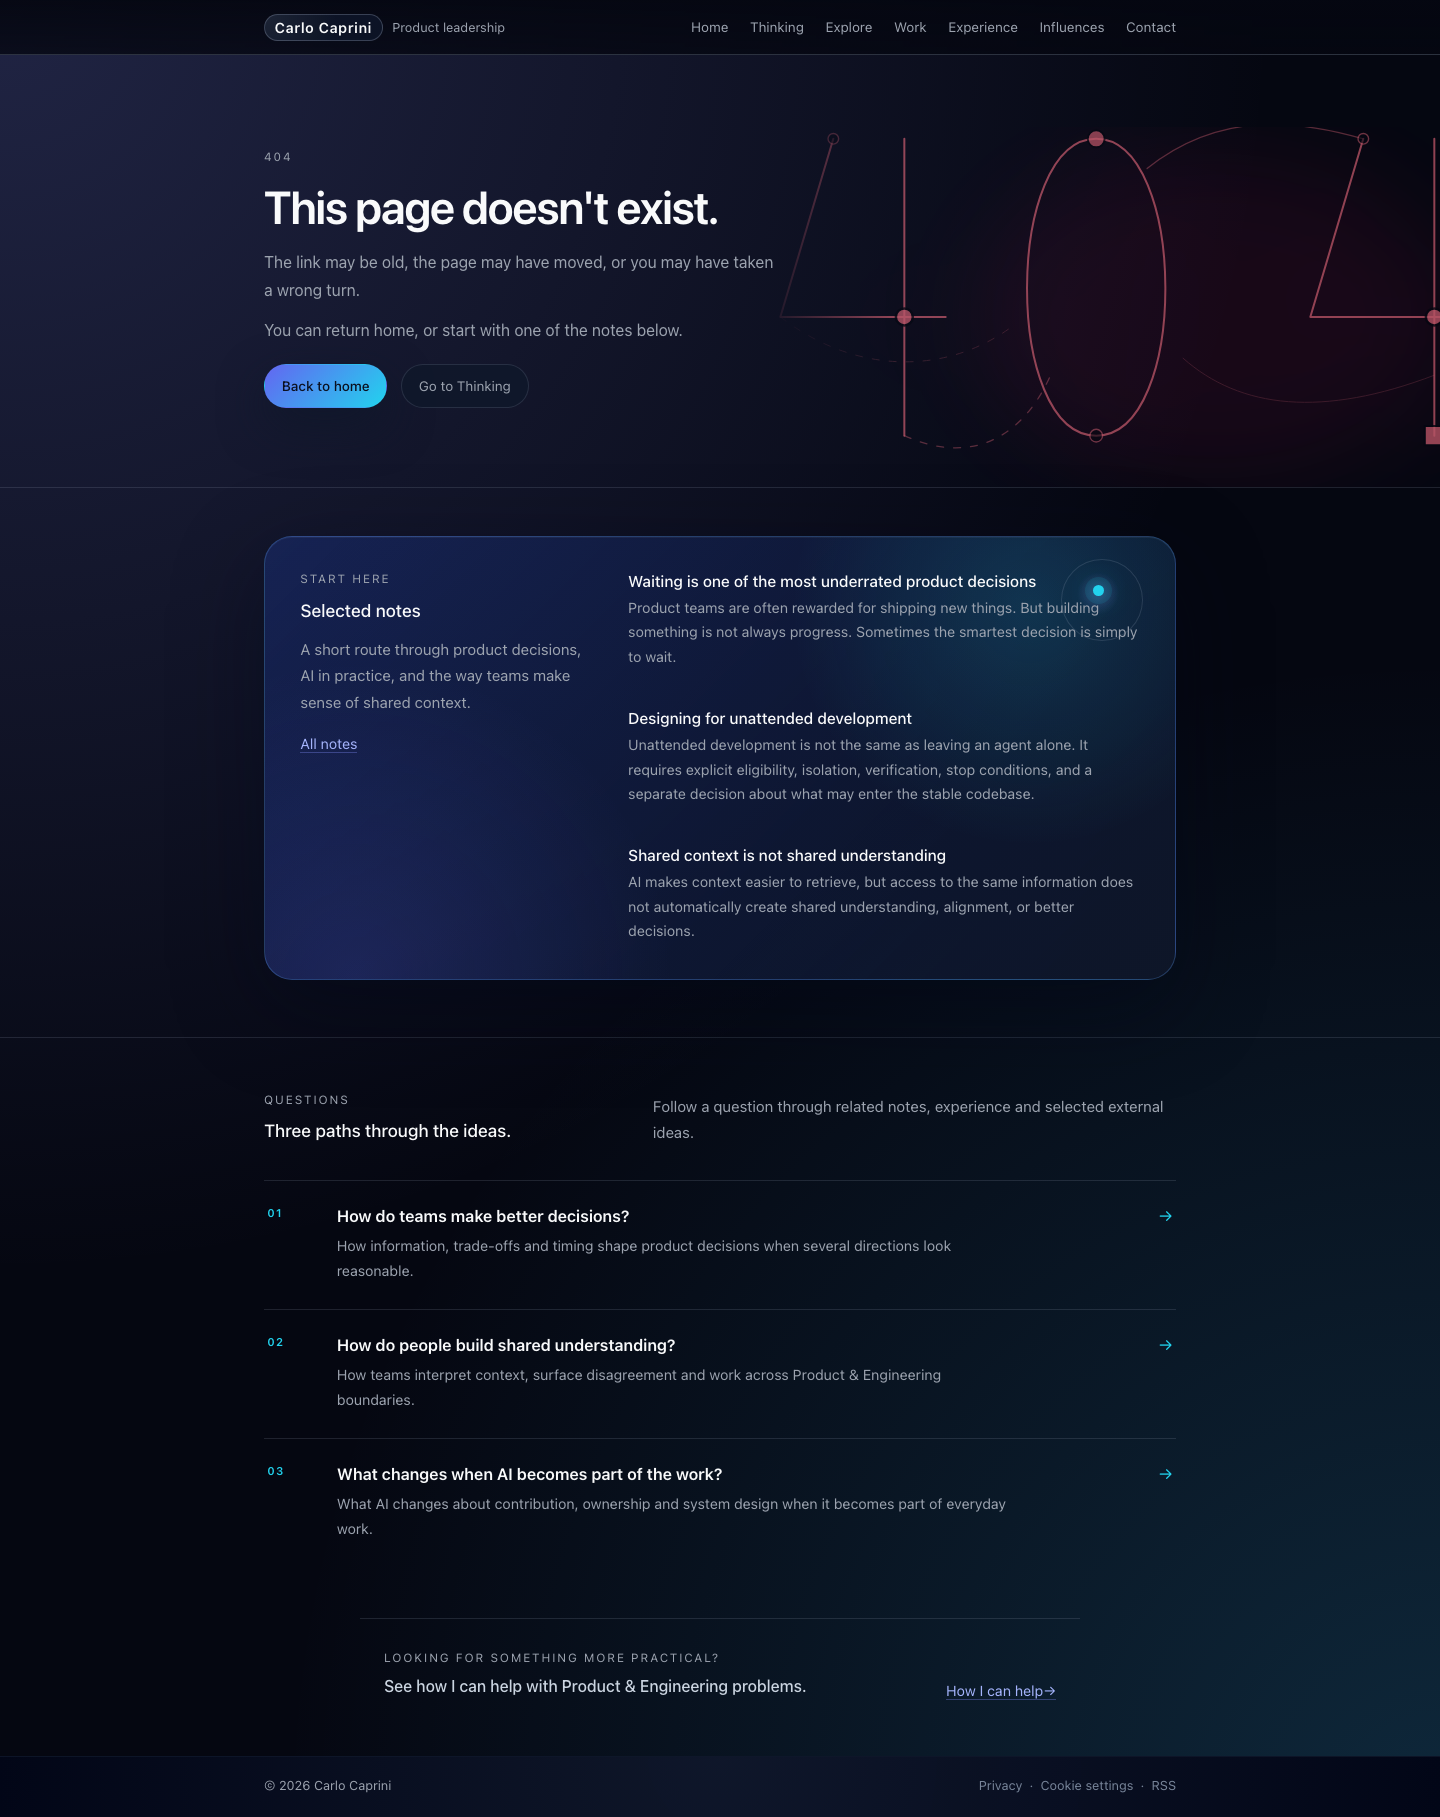
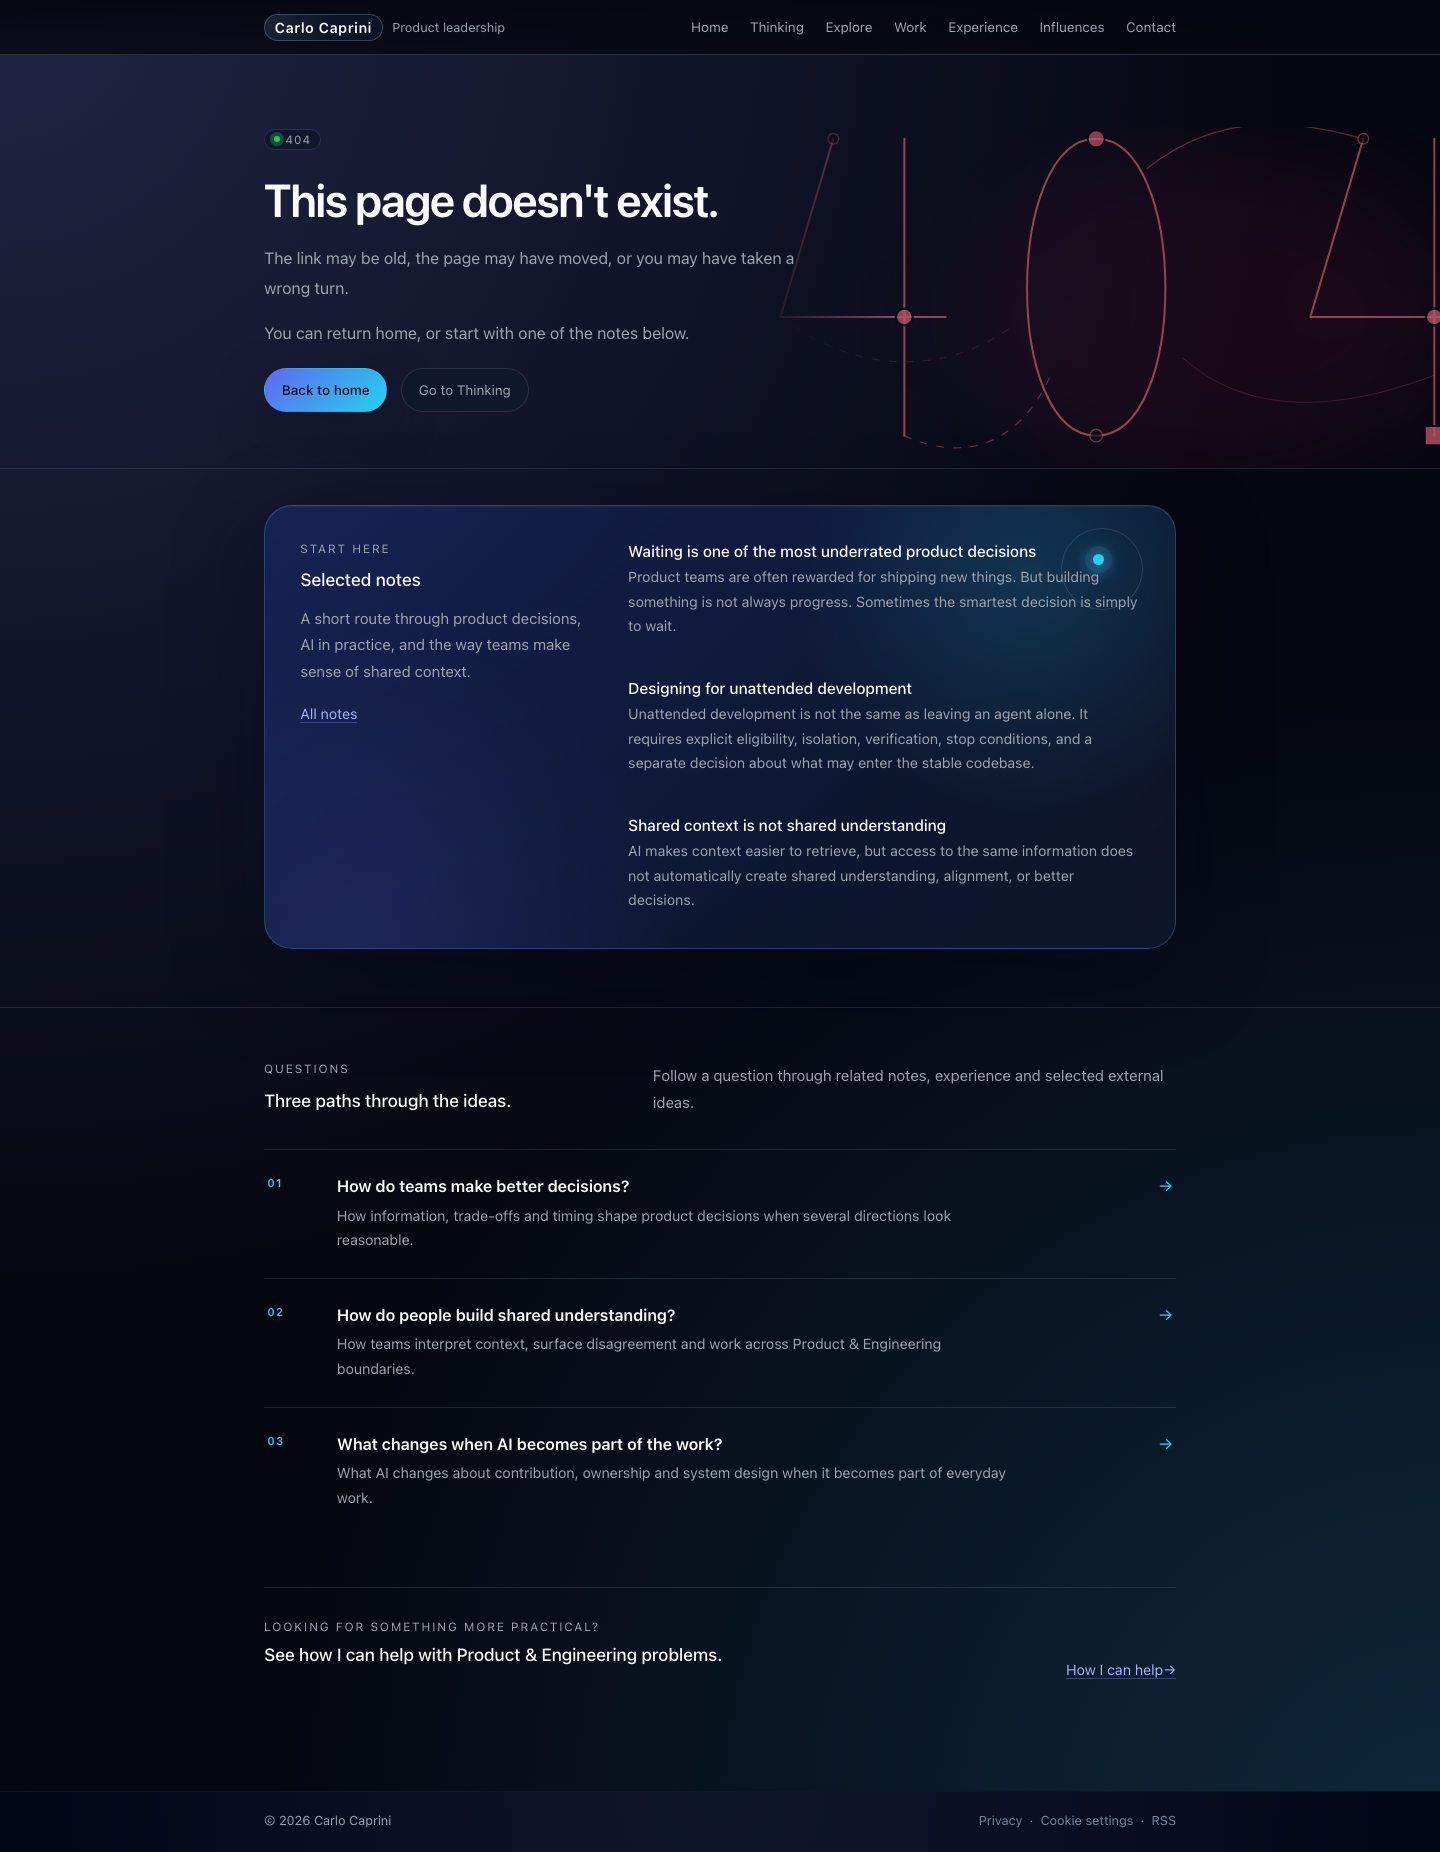
Align 404 with shared design primitives

diff --git a/tests/browser/not-found.spec.js b/tests/browser/not-found.spec.js
@@ -36,10 +36,18 @@ test("custom 404 output preserves the site shell and focused recovery hierarchy"
   await expect(page.locator(".site-header")).toBeAttached();
   await expect(page.locator(".site-footer")).toBeAttached();
   await expect(page.locator("[data-consent-settings]")).toBeAttached();
+  await expect(page.locator(".not-found-hero")).toHaveClass(/\bhero\b/);
+  await expect(page.locator(".not-found-hero")).toHaveClass(/\bhero--compact\b/);
+  await expect(page.locator(".not-found-message > .hero-label")).toHaveText("404");
+  await expect(page.locator(".not-found-message > .hero-label .hero-label-dot")).toBeVisible();
+  await expect(page.locator(".not-found-message > .section-eyebrow")).toHaveCount(0);
   await expect(page.getByRole("heading", { name: "This page doesn't exist." })).toBeVisible();
+  await expect(page.locator("#not-found-title")).toHaveClass(/\bhero-title--compact\b/);
+  await expect(page.locator(".not-found-message > .hero-subtitle")).toHaveCount(2);
   await expect(page.getByRole("link", { name: "Back to home" })).toHaveAttribute("href", "/");
   await expect(page.getByRole("link", { name: "Go to Thinking" })).toHaveAttribute("href", "/thinking/");
   await expect(page.getByRole("link", { name: "How I can help" })).toHaveAttribute("href", "/work/");
+  await expect(page.locator(".not-found-work #not-found-work-title")).toHaveClass(/\bsection-title\b/);
 
   const noteLinks = page.locator(".not-found-notes > li > a");
   await expect(noteLinks).toHaveCount(3);
@@ -88,4 +96,30 @@ test("recovery remains usable without the decorative motif", async ({ page }) =>
   await expect(page.getByRole("link", { name: "How I can help" })).toBeVisible();
   expect(await page.evaluate(() => document.documentElement.scrollWidth))
     .toBe(await page.evaluate(() => document.documentElement.clientWidth));
+});
+
+test("404 typography uses the canonical hero and section primitives", async ({ page }) => {
+  const styleSignature = async (selector, properties) => page.locator(selector).first().evaluate((element, names) => {
+    const style = getComputedStyle(element);
+    return Object.fromEntries(names.map((name) => [name, style[name]]));
+  }, properties);
+
+  const labelProperties = ["display", "fontSize", "letterSpacing", "padding", "borderRadius", "textTransform"];
+  const titleProperties = ["fontSize", "fontWeight", "letterSpacing", "lineHeight", "marginTop", "marginBottom"];
+  const subtitleProperties = ["fontSize", "lineHeight", "color", "maxWidth"];
+
+  await page.goto("/thinking/");
+  const canonicalLabel = await styleSignature(".hero .hero-label", labelProperties);
+  const canonicalTitle = await styleSignature(".hero .hero-title", titleProperties);
+  const canonicalSubtitle = await styleSignature(".hero .hero-subtitle", subtitleProperties);
+
+  await page.goto("/404.html");
+  expect(await styleSignature(".not-found-message > .hero-label", labelProperties)).toEqual(canonicalLabel);
+  expect(await styleSignature("#not-found-title", titleProperties)).toEqual(canonicalTitle);
+  expect(await styleSignature(".not-found-message > .hero-subtitle", subtitleProperties)).toEqual(canonicalSubtitle);
+
+  const sectionTitleProperties = ["fontSize", "fontWeight", "lineHeight"];
+  expect(await styleSignature("#not-found-work-title", sectionTitleProperties)).toEqual(
+    await styleSignature("#not-found-questions-title", sectionTitleProperties)
+  );
 });

diff --git a/_layouts/not_found.html b/_layouts/not_found.html
@@ -4,7 +4,7 @@ layout: default
 ---
 {% assign h = site.data.home %}
 <div class="page not-found-page">
-  <section class="not-found-hero" aria-labelledby="not-found-title">
+  <section class="hero hero--compact not-found-hero" aria-labelledby="not-found-title">
     <div class="not-found-motif" aria-hidden="true">
       <svg viewBox="0 0 720 420" focusable="false">
         <g class="not-found-motif-composition">
@@ -25,14 +25,15 @@ layout: default
         </g>
       </svg>
     </div>
-    <div class="container not-found-hero-grid">
+    <div class="container hero-grid hero-grid--single not-found-hero-grid">
       <div class="not-found-message">
-        <div class="section-eyebrow">404</div>
-        <h1 class="hero-title" id="not-found-title">This page doesn't exist.</h1>
-        <div class="not-found-intro">
-          <p>The link may be old, the page may have moved, or you may have taken a wrong turn.</p>
-          <p>You can return home, or start with one of the notes below.</p>
+        <div class="hero-label">
+          <span class="hero-label-dot"></span>
+          <span>404</span>
         </div>
+        <h1 class="hero-title hero-title--compact" id="not-found-title">This page doesn't exist.</h1>
+        <p class="hero-subtitle hero-subtitle--wide">The link may be old, the page may have moved, or you may have taken a wrong turn.</p>
+        <p class="hero-subtitle hero-subtitle--wide">You can return home, or start with one of the notes below.</p>
         <div class="hero-actions hero-actions--compact">
           <a class="button-primary" href="{{ '/' | relative_url }}" data-analytics-event="collection_open" data-analytics-collection="home" data-analytics-link-context="not_found_primary">Back to home</a>
           <a class="button-ghost" href="{{ '/thinking/' | relative_url }}" data-analytics-event="collection_open" data-analytics-collection="thinking" data-analytics-link-context="not_found_primary">Go to Thinking</a>
@@ -95,13 +96,15 @@ layout: default
     </div>
   </section>
 
-  <section class="not-found-work" aria-labelledby="not-found-work-title">
-    <div class="container not-found-content not-found-work-inner">
-      <div>
-        <div class="section-eyebrow">Looking for something more practical?</div>
-        <h2 class="not-found-work-title" id="not-found-work-title">See how I can help with Product &amp; Engineering problems.</h2>
+  <section class="section not-found-work" aria-labelledby="not-found-work-title">
+    <div class="container explore-wrap">
+      <div class="section-header not-found-work-header">
+        <div>
+          <div class="section-eyebrow">Looking for something more practical?</div>
+          <h2 class="section-title" id="not-found-work-title">See how I can help with Product &amp; Engineering problems.</h2>
+        </div>
+        <a class="section-link" href="{{ '/work/' | relative_url }}" data-analytics-event="work_open" data-analytics-link-context="not_found_work">How I can help <span aria-hidden="true">→</span></a>
       </div>
-      <a class="section-link" href="{{ '/work/' | relative_url }}" data-analytics-event="work_open" data-analytics-link-context="not_found_work">How I can help <span aria-hidden="true">→</span></a>
     </div>
   </section>
 </div>

diff --git a/_includes/styles/not-found.css b/_includes/styles/not-found.css
@@ -1,46 +1,16 @@
-.not-found-page {
-  padding-bottom: 3.5rem;
-}
-
 .not-found-hero {
   position: relative;
   overflow: hidden;
-  margin-bottom: 3rem;
-  padding-bottom: 3.5rem;
-  border-bottom: 1px solid var(--color-line);
 }
 
 .not-found-hero-grid {
   position: relative;
   z-index: 2;
-  display: flex;
-  min-height: 19rem;
-  align-items: center;
 }
 
 .not-found-message {
   min-width: 0;
   width: min(100%, 34rem);
-}
-
-.not-found-message .hero-title {
-  max-width: 31rem;
-  margin-top: 1rem;
-}
-
-.not-found-intro {
-  max-width: 32rem;
-}
-
-.not-found-intro p {
-  margin: 0;
-  color: var(--color-text-muted);
-  font-size: 1rem;
-  line-height: 1.75;
-}
-
-.not-found-intro p + p {
-  margin-top: 0.7rem;
 }
 
 .not-found-motif {
@@ -52,6 +22,7 @@
   color: #fb7185;
   opacity: 0.72;
   pointer-events: none;
+  -webkit-mask-image: linear-gradient(to right, transparent 0%, #000 18%);
   mask-image: linear-gradient(to right, transparent 0%, #000 18%);
   filter: drop-shadow(0 0 34px rgba(190, 24, 93, 0.2));
 }
@@ -87,10 +58,6 @@
   fill: currentColor;
 }
 
-.not-found-content {
-  max-width: 720px;
-}
-
 .not-found-questions {
   margin-top: 3.6rem;
   padding-top: 3.4rem;
@@ -101,22 +68,16 @@
   margin-top: 3.2rem;
 }
 
-.not-found-work-inner {
-  display: grid;
-  grid-template-columns: minmax(0, 1fr) auto;
-  gap: 2rem;
-  align-items: end;
+.not-found-work-header {
+  align-items: flex-end;
+  margin-bottom: 0;
   padding-top: 2rem;
   border-top: 1px solid var(--color-line);
 }
 
-.not-found-work-title {
+.not-found-work-header .section-title {
   max-width: 32rem;
-  margin: 0.65rem 0 0;
-  color: var(--color-text-secondary);
-  font-size: 1rem;
-  font-weight: 500;
-  line-height: 1.6;
+  margin-top: 0.65rem;
 }
 
 .not-found-work .section-link {

diff --git a/_includes/styles/responsive.css b/_includes/styles/responsive.css
@@ -156,14 +156,6 @@
     grid-template-columns: minmax(0, 1fr);
   }
 
-  .not-found-hero-grid {
-    min-height: 18rem;
-  }
-
-  .not-found-message {
-    max-width: 38rem;
-  }
-
   .not-found-motif {
     top: -1rem;
     right: -10rem;
@@ -780,29 +772,12 @@
     font-size: 0.8rem;
   }
 
-  .not-found-page {
-    padding-bottom: 2.8rem;
-  }
-
-  .not-found-hero {
-    margin-bottom: 2.5rem;
-    padding-bottom: 2.6rem;
-  }
-
-  .not-found-hero-grid {
-    min-height: 0;
-  }
-
-  .not-found-intro p {
-    font-size: 0.94rem;
-    line-height: 1.7;
-  }
-
   .not-found-motif {
     top: 0.5rem;
     right: -10.5rem;
     width: 28rem;
     opacity: 0.46;
+    -webkit-mask-image: linear-gradient(to right, transparent 0%, transparent 30%, #000 62%);
     mask-image: linear-gradient(to right, transparent 0%, transparent 30%, #000 62%);
   }
 
@@ -815,14 +790,8 @@
     margin-top: 2.6rem;
   }
 
-  .not-found-work-inner {
-    grid-template-columns: minmax(0, 1fr);
-    gap: 0.9rem;
+  .not-found-work-header {
     align-items: start;
-  }
-
-  .not-found-work .section-link {
-    justify-self: start;
   }
 
   .thinking-ai-process {

diff --git a/tests/browser/webkit-smoke.spec.js b/tests/browser/webkit-smoke.spec.js
@@ -15,7 +15,7 @@ test("Home and primary navigation render", async ({ page }, testInfo) => {
 });
 
 test("representative pages avoid horizontal overflow", async ({ page }) => {
-  for (const route of ["/", "/explore/", "/work/", "/thinking/waiting-as-product-decision/", "/series/building-my-ai-operating-system/"]) {
+  for (const route of ["/", "/404.html", "/explore/", "/work/", "/thinking/waiting-as-product-decision/", "/series/building-my-ai-operating-system/"]) {
     await page.goto(route);
     const dimensions = await page.evaluate(() => ({
       documentWidth: document.documentElement.scrollWidth,

diff --git a/docs/design-system.md b/docs/design-system.md
@@ -715,9 +715,9 @@ Minimum rules:
 
 ## Missing-page recovery
 
-The 404 surface uses the global shell and the ordinary editorial hierarchy. Its recovery message and two primary actions remain dominant. A static, decorative red/coral path-and-node composition uses the shared line grammar without reusing any Article topic family; it loosely traces `4 0 4`, remains non-essential and sits behind the protected text area.
+The 404 surface uses the global shell and the standard compact-hero primitives: `hero-label`, `hero-title`, `hero-subtitle` and the existing action styles. Its recovery message and two primary actions remain dominant. A static, decorative red/coral path-and-node composition uses the shared line grammar without reusing any Article topic family; it loosely traces `4 0 4`, remains non-essential and sits behind the protected text area.
 
-Start Here reuses the Home selected-notes panel and the canonical selections in `_data/start_here.yml`. Questions reuses all three numbered paths from Explore, while Work remains a compact closing route. At narrower widths the composition is cropped and faded more aggressively so it never reduces title readability or changes the content order.
+Start Here reuses the Home selected-notes panel and the canonical selections in `_data/start_here.yml`. Questions reuses all three numbered paths from Explore. Work uses the shared section eyebrow, title and link primitives as a compact closing route. At narrower widths the composition is cropped and faded more aggressively so it never reduces title readability or changes the content order. Page-specific CSS may position the decorative composition and control section rhythm, but it must not redefine shared hero or section typography.
 
 ## Editorial Metadata
 
